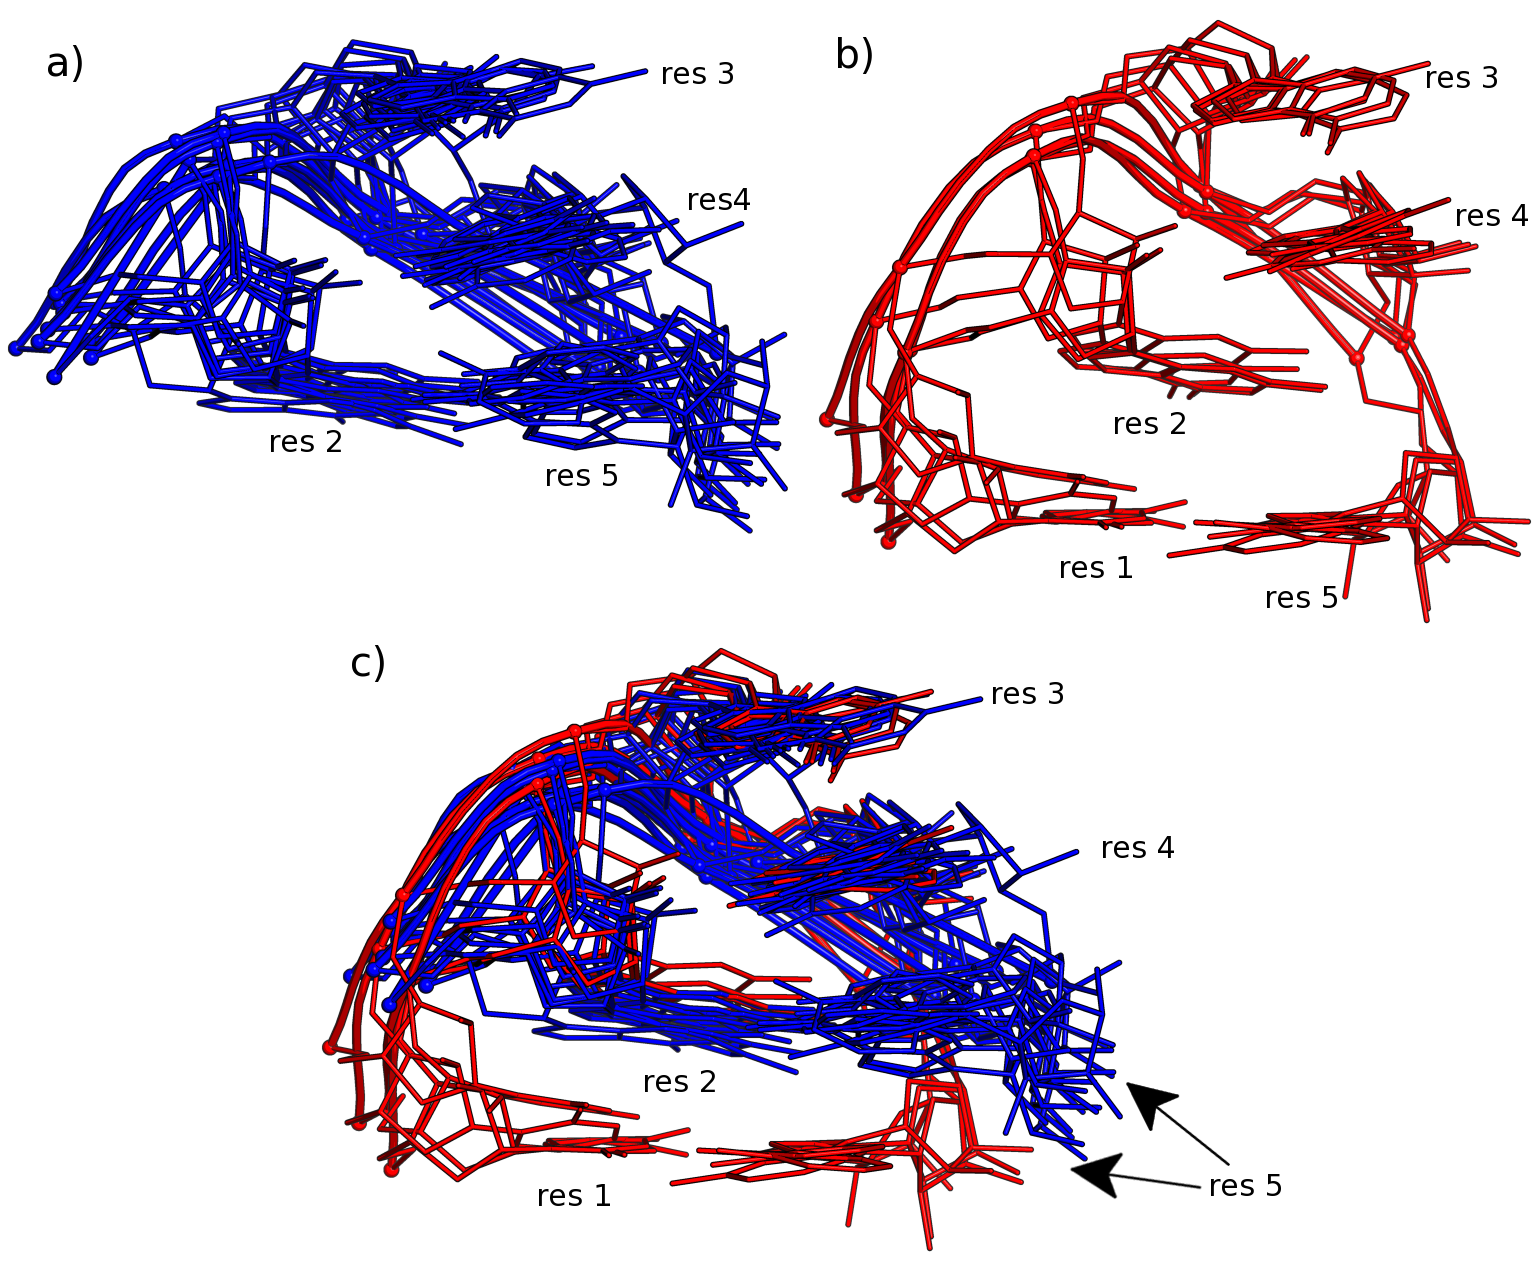
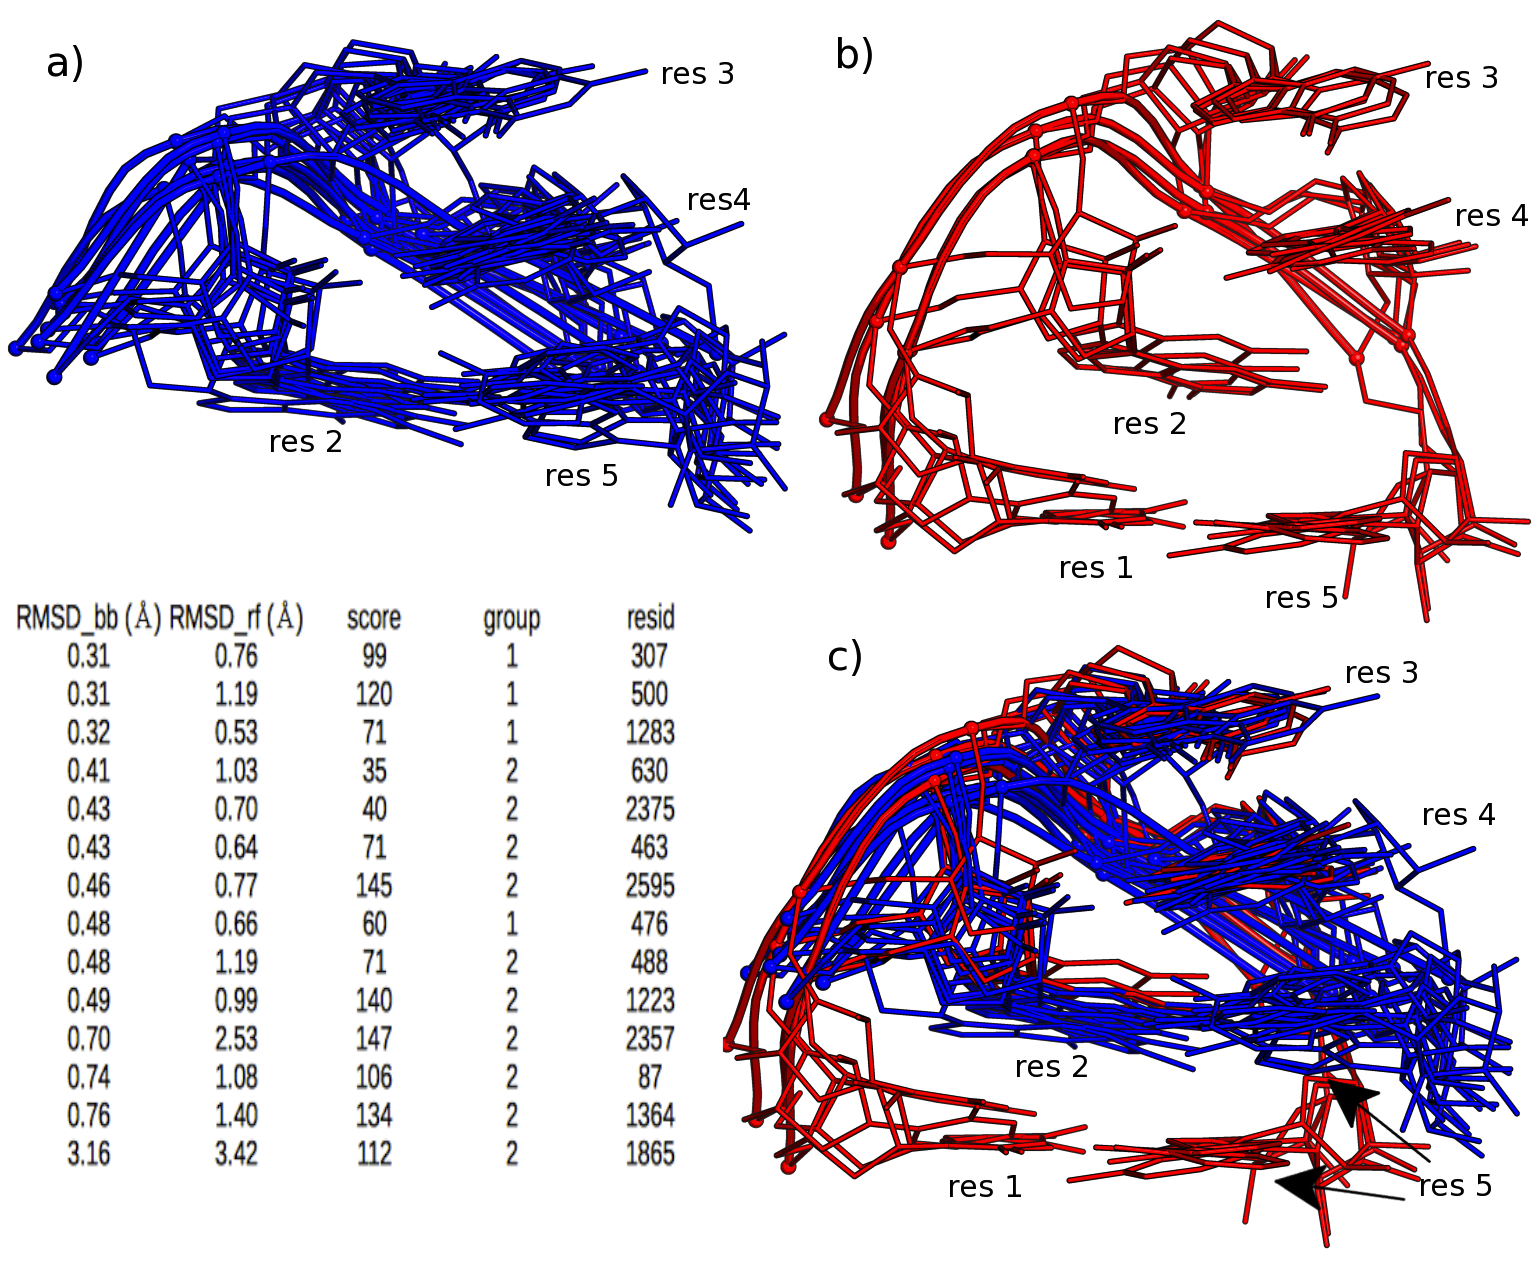
finished groups image with RMSD's

Changed region(s): [[0.0, 0.4606, 0.9974, 0.9827], [0.3117, 0.2457, 0.3429, 0.2764]]

diff --git a/Chapter5/chapter5.tex b/Chapter5/chapter5.tex
@@ -1,7 +1,7 @@
 \chapter{RNA Motifs}
 \label{motifs} 
 \bibliographystyle{nar}
-As mentioned  in Chapter 2 until  now the most  common perspectives on
+As mentioned  in Chapter 2,  until  now the most  common perspectives on
 RNA motif recognition  and discovery have been chemical,  based on the
 atoms  and bonds.  The  rigid-body based  perspective involved  in the
 interactions and the internal parameters taht describe the 3D folds on
